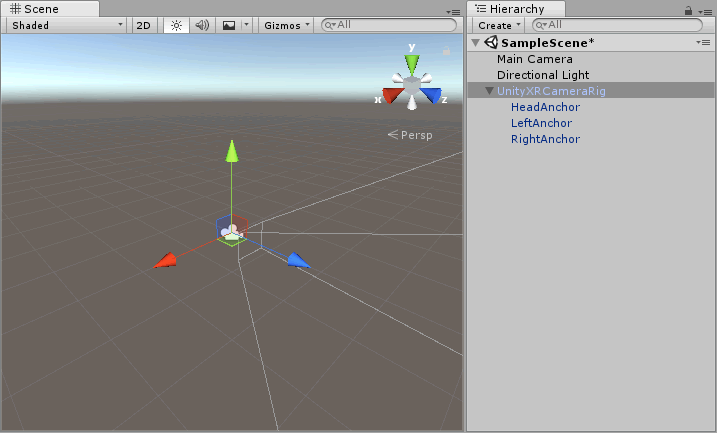
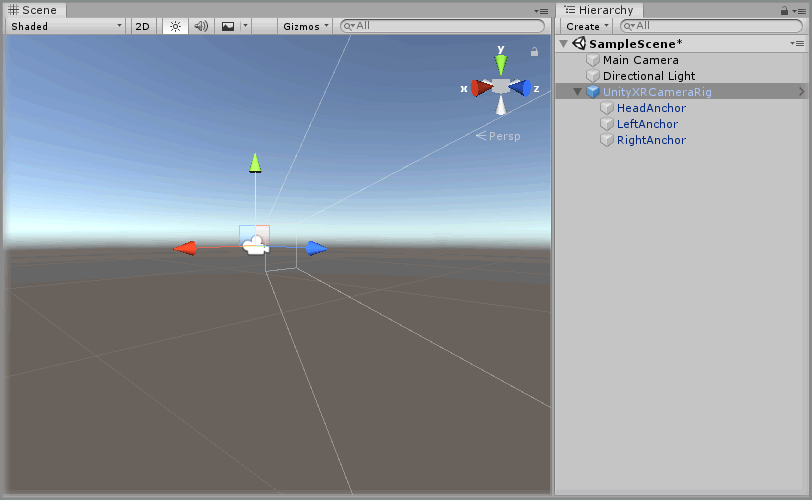
fix(HowToGuides): update adding the UnityXRCameraRig to 2018.3 version
As VRTK now has a minimum requirement of Unity 2018.3 then the guides
need to be tested in at least this version and updated accordingly.

The image assets have been redone as the UI of Unity 2018.3 has been
redesigned so it looks different.

Any reference to Unity 3d has been changed to Unity and where Unity
is used as an adjective not a noun.

diff --git a/Documentation/HowToGuides/Basics/AddingTheUnityXRCameraRig/README.md b/Documentation/HowToGuides/Basics/AddingTheUnityXRCameraRig/README.md
@@ -8,7 +8,7 @@
   >
   > * Reading Time: 2 minutes
   >
-  > * Checked with: Unity 2018.1
+  > * Checked with: Unity 2018.3.6f1
 
 The UnityXR CameraRig helper prefab provides a camera that tracks the HMD rotation and position along with any available XR controllers.
 
@@ -23,15 +23,15 @@ The outcome of this How-To Guide is to learn how to add the UnityXR CameraRig pr
 
 ## Prerequisites
 
-* Add [VRTK.Unity.Core] to your Unity3d project.
+* Follow the [VRTK Getting Started] steps to add VRTK to your Unity project.
 
 ## Let's Start
 
 ### Step 1
 
-Expand the VRTK.Unity.Core directory in the Unity3d Project window until the `VRTK.Unity.Core -> Prefabs -> CameraRig` directory is visible.
+Expand the VRTK directory in the Unity Project window until the `VRTK -> Prefabs -> CameraRig -> UnityXRCameraRig` directory is visible and select the `UnityXRCameraRig` directory so the contents are displayed.
 
-![Unity3d Project Window](assets/images/Unity3dProjectWindow.png)
+![Unity Project Window](assets/images/UnityProjectWindow.png)
 
 ### Step 2
 
@@ -41,7 +41,7 @@ Select the `UnityXRCameraRig` prefab then drag and drop it into the Hierarchy wi
 
 ### Step 3
 
-Select the `UnityXRCameraRig` GameObject in the Unity3d Hierarchy window and change the `Unity XR Configuration` component to suit your Tracking Space requirements.
+Select the `UnityXRCameraRig` GameObject in the Unity Hierarchy window and change the `Unity XR Configuration` component to suit your Tracking Space requirements.
 
 * Ensure the `Tracking Space Type` is set to:
   * `Room Scale` for XR devices that support 6 degrees of freedom tracking (the ability to move around your play area).
@@ -59,4 +59,4 @@ Now you have a UnityXR CameraRig in your scene. If you play your scene you will 
 
 * Follow up tutorials coming soon...
 
-[VRTK.Unity.Core]: https://github.com/ExtendRealityLtd/VRTK.Unity.Core#getting-started
+[VRTK Getting Started]: https://github.com/thestonefox/VRTK#getting-started
